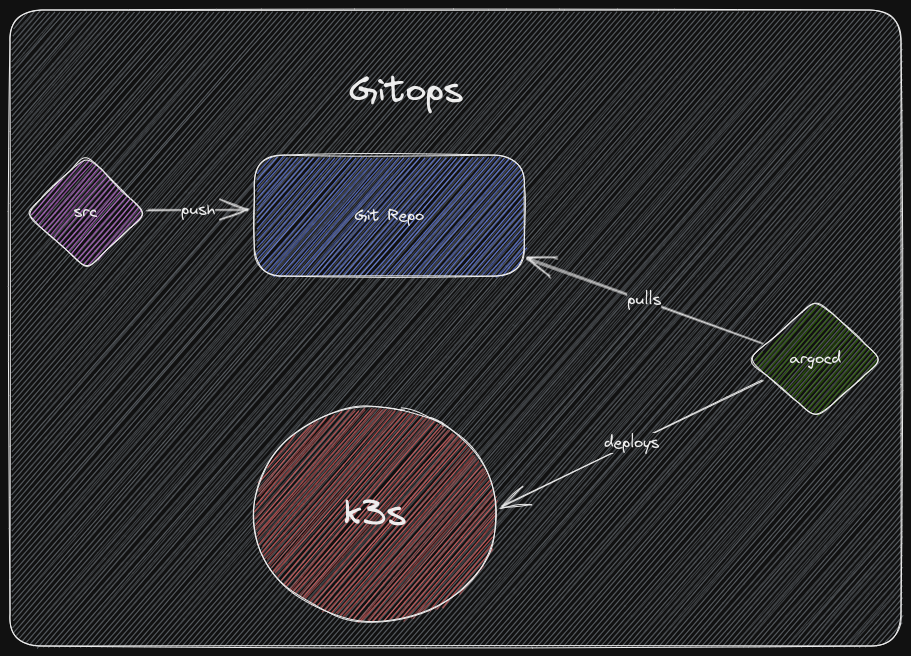
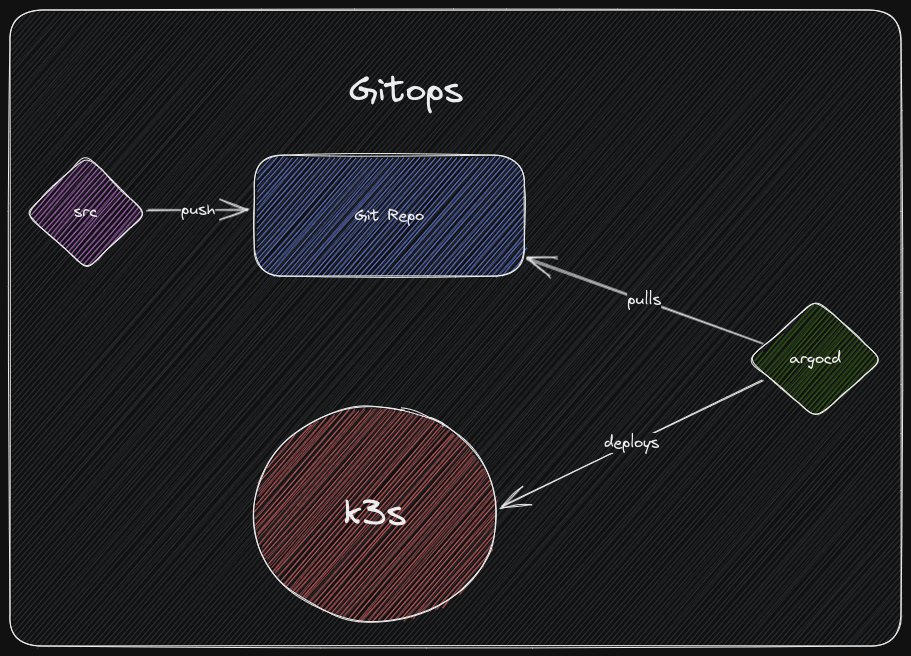
updated docs

Changed region(s): [[0.0, 0.0, 0.9835, 1.0]]

diff --git a/docs/Excalidraw/gitops.md b/docs/Excalidraw/gitops.md
@@ -34,8 +34,8 @@ deploys ^ffl88FOX
 	"elements": [
 		{
 			"type": "rectangle",
-			"version": 100,
-			"versionNonce": 291937444,
+			"version": 110,
+			"versionNonce": 1418258724,
 			"isDeleted": false,
 			"id": "u7u7zSOtFN6kRKwWiZcd3",
 			"fillStyle": "hachure",
@@ -47,7 +47,7 @@ deploys ^ffl88FOX
 			"x": -409.075569584724,
 			"y": -450.29787561379356,
 			"strokeColor": "#000000",
-			"backgroundColor": "#868e96",
+			"backgroundColor": "#ced4da",
 			"width": 891,
 			"height": 636,
 			"seed": 1974743464,
@@ -56,14 +56,14 @@ deploys ^ffl88FOX
 				"type": 3
 			},
 			"boundElements": [],
-			"updated": 1682622008367,
+			"updated": 1682622308020,
 			"link": null,
 			"locked": false
 		},
 		{
 			"type": "text",
-			"version": 52,
-			"versionNonce": 212631716,
+			"version": 61,
+			"versionNonce": 1641776676,
 			"isDeleted": false,
 			"id": "Byv7qdiW",
 			"fillStyle": "hachure",
@@ -82,7 +82,7 @@ deploys ^ffl88FOX
 			"groupIds": [],
 			"roundness": null,
 			"boundElements": [],
-			"updated": 1682622002718,
+			"updated": 1682622294817,
 			"link": null,
 			"locked": false,
 			"fontSize": 36,
@@ -98,8 +98,8 @@ deploys ^ffl88FOX
 		},
 		{
 			"type": "arrow",
-			"version": 639,
-			"versionNonce": 1837957276,
+			"version": 652,
+			"versionNonce": 1612865052,
 			"isDeleted": false,
 			"id": "jeb5vtgqfgV7qZcL64plT",
 			"fillStyle": "hachure",
@@ -125,7 +125,7 @@ deploys ^ffl88FOX
 					"id": "C216NDj0"
 				}
 			],
-			"updated": 1682622115702,
+			"updated": 1682622294817,
 			"link": null,
 			"locked": false,
 			"startBinding": {
@@ -154,8 +154,8 @@ deploys ^ffl88FOX
 		},
 		{
 			"type": "text",
-			"version": 85,
-			"versionNonce": 1008520228,
+			"version": 94,
+			"versionNonce": 1884234148,
 			"isDeleted": false,
 			"id": "C216NDj0",
 			"fillStyle": "hachure",
@@ -174,7 +174,7 @@ deploys ^ffl88FOX
 			"groupIds": [],
 			"roundness": null,
 			"boundElements": [],
-			"updated": 1682622002718,
+			"updated": 1682622294817,
 			"link": null,
 			"locked": false,
 			"fontSize": 16,
@@ -190,8 +190,8 @@ deploys ^ffl88FOX
 		},
 		{
 			"type": "rectangle",
-			"version": 239,
-			"versionNonce": 973109276,
+			"version": 251,
+			"versionNonce": 1491614364,
 			"isDeleted": false,
 			"id": "kLS8z6zJOK-h-JcVIsNQb",
 			"fillStyle": "hachure",
@@ -225,14 +225,14 @@ deploys ^ffl88FOX
 					"type": "arrow"
 				}
 			],
-			"updated": 1682622002718,
+			"updated": 1682622294817,
 			"link": null,
 			"locked": false
 		},
 		{
 			"type": "text",
-			"version": 195,
-			"versionNonce": 1048029092,
+			"version": 204,
+			"versionNonce": 885214500,
 			"isDeleted": false,
 			"id": "d0uokuYA",
 			"fillStyle": "hachure",
@@ -251,7 +251,7 @@ deploys ^ffl88FOX
 			"groupIds": [],
 			"roundness": null,
 			"boundElements": [],
-			"updated": 1682622002718,
+			"updated": 1682622294817,
 			"link": null,
 			"locked": false,
 			"fontSize": 16,
@@ -267,8 +267,8 @@ deploys ^ffl88FOX
 		},
 		{
 			"type": "diamond",
-			"version": 337,
-			"versionNonce": 1140003996,
+			"version": 348,
+			"versionNonce": 1706985244,
 			"isDeleted": false,
 			"id": "vQEnVNpq7gxfsT9YVamWG",
 			"fillStyle": "hachure",
@@ -302,14 +302,14 @@ deploys ^ffl88FOX
 					"type": "arrow"
 				}
 			],
-			"updated": 1682622002718,
+			"updated": 1682622294817,
 			"link": null,
 			"locked": false
 		},
 		{
 			"type": "text",
-			"version": 336,
-			"versionNonce": 2011894564,
+			"version": 345,
+			"versionNonce": 1084623012,
 			"isDeleted": false,
 			"id": "WSebLmqn",
 			"fillStyle": "hachure",
@@ -328,7 +328,7 @@ deploys ^ffl88FOX
 			"groupIds": [],
 			"roundness": null,
 			"boundElements": [],
-			"updated": 1682622002718,
+			"updated": 1682622294817,
 			"link": null,
 			"locked": false,
 			"fontSize": 16,
@@ -344,8 +344,8 @@ deploys ^ffl88FOX
 		},
 		{
 			"type": "arrow",
-			"version": 884,
-			"versionNonce": 1203320732,
+			"version": 897,
+			"versionNonce": 186074012,
 			"isDeleted": false,
 			"id": "-48LjWheyHDZuB7qjw9Hp",
 			"fillStyle": "hachure",
@@ -371,7 +371,7 @@ deploys ^ffl88FOX
 					"id": "ZqwWGwxC"
 				}
 			],
-			"updated": 1682622115698,
+			"updated": 1682622294817,
 			"link": null,
 			"locked": false,
 			"startBinding": {
@@ -400,8 +400,8 @@ deploys ^ffl88FOX
 		},
 		{
 			"type": "text",
-			"version": 86,
-			"versionNonce": 384110244,
+			"version": 95,
+			"versionNonce": 1202017316,
 			"isDeleted": false,
 			"id": "ZqwWGwxC",
 			"fillStyle": "hachure",
@@ -420,7 +420,7 @@ deploys ^ffl88FOX
 			"groupIds": [],
 			"roundness": null,
 			"boundElements": [],
-			"updated": 1682622002718,
+			"updated": 1682622294817,
 			"link": null,
 			"locked": false,
 			"fontSize": 16,
@@ -436,8 +436,8 @@ deploys ^ffl88FOX
 		},
 		{
 			"type": "arrow",
-			"version": 458,
-			"versionNonce": 1440386332,
+			"version": 471,
+			"versionNonce": 1864658972,
 			"isDeleted": false,
 			"id": "4nyMsX075Yv1S7o89XaMr",
 			"fillStyle": "hachure",
@@ -463,7 +463,7 @@ deploys ^ffl88FOX
 					"id": "ffl88FOX"
 				}
 			],
-			"updated": 1682622115704,
+			"updated": 1682622294817,
 			"link": null,
 			"locked": false,
 			"startBinding": {
@@ -492,8 +492,8 @@ deploys ^ffl88FOX
 		},
 		{
 			"type": "text",
-			"version": 59,
-			"versionNonce": 1276353060,
+			"version": 68,
+			"versionNonce": 1471098788,
 			"isDeleted": false,
 			"id": "ffl88FOX",
 			"fillStyle": "hachure",
@@ -512,7 +512,7 @@ deploys ^ffl88FOX
 			"groupIds": [],
 			"roundness": null,
 			"boundElements": [],
-			"updated": 1682622002718,
+			"updated": 1682622294817,
 			"link": null,
 			"locked": false,
 			"fontSize": 16,
@@ -528,8 +528,8 @@ deploys ^ffl88FOX
 		},
 		{
 			"type": "diamond",
-			"version": 162,
-			"versionNonce": 1680181788,
+			"version": 172,
+			"versionNonce": 567807132,
 			"isDeleted": false,
 			"id": "l9nJ_Ggt9ZMg478Jqf7vt",
 			"fillStyle": "hachure",
@@ -559,14 +559,14 @@ deploys ^ffl88FOX
 					"type": "arrow"
 				}
 			],
-			"updated": 1682622002718,
+			"updated": 1682622294817,
 			"link": null,
 			"locked": false
 		},
 		{
 			"type": "text",
-			"version": 126,
-			"versionNonce": 40154532,
+			"version": 135,
+			"versionNonce": 284269348,
 			"isDeleted": false,
 			"id": "lnbNMS6v",
 			"fillStyle": "hachure",
@@ -585,7 +585,7 @@ deploys ^ffl88FOX
 			"groupIds": [],
 			"roundness": null,
 			"boundElements": [],
-			"updated": 1682622002718,
+			"updated": 1682622294817,
 			"link": null,
 			"locked": false,
 			"fontSize": 16,
@@ -601,8 +601,8 @@ deploys ^ffl88FOX
 		},
 		{
 			"type": "ellipse",
-			"version": 120,
-			"versionNonce": 1269163676,
+			"version": 133,
+			"versionNonce": 723001892,
 			"isDeleted": false,
 			"id": "DgGiR_mS6vZ2FDqEMHlvY",
 			"fillStyle": "hachure",
@@ -632,14 +632,14 @@ deploys ^ffl88FOX
 					"type": "arrow"
 				}
 			],
-			"updated": 1682622002718,
+			"updated": 1682622302596,
 			"link": null,
 			"locked": false
 		},
 		{
 			"type": "text",
-			"version": 29,
-			"versionNonce": 386294052,
+			"version": 39,
+			"versionNonce": 1267565084,
 			"isDeleted": false,
 			"id": "Yi8IxtD5",
 			"fillStyle": "hachure",
@@ -658,7 +658,7 @@ deploys ^ffl88FOX
 			"groupIds": [],
 			"roundness": null,
 			"boundElements": [],
-			"updated": 1682622002718,
+			"updated": 1682622302596,
 			"link": null,
 			"locked": false,
 			"fontSize": 36,
@@ -677,8 +677,8 @@ deploys ^ffl88FOX
 		"theme": "dark",
 		"viewBackgroundColor": "#ffffff",
 		"currentItemStrokeColor": "#000000",
-		"currentItemBackgroundColor": "#868e96",
-		"currentItemFillStyle": "hachure",
+		"currentItemBackgroundColor": "#ced4da",
+		"currentItemFillStyle": "solid",
 		"currentItemStrokeWidth": 1,
 		"currentItemStrokeStyle": "solid",
 		"currentItemRoughness": 1,

diff --git a/docs/Excalidraw/three-choices.md b/docs/Excalidraw/three-choices.md
@@ -283,42 +283,6 @@ Minikube ^E6HB5i2B
 			"originalText": "- starts with debian ( FDE )\n- converts debian to proxmox\n- creates proxmox debian template\n- creates kvm based on template\n- installs k3s in kvm\n- installs argocd in k3s\n- argocd then loads the charts",
 			"lineHeight": 1.25,
 			"baseline": 134
-		},
-		{
-			"id": "qfRlFuOx",
-			"type": "text",
-			"x": 1212.4756436740047,
-			"y": -258.1821658615136,
-			"width": 8.000015258789062,
-			"height": 20,
-			"angle": 0,
-			"strokeColor": "#000000",
-			"backgroundColor": "#ced4da",
-			"fillStyle": "hachure",
-			"strokeWidth": 1,
-			"strokeStyle": "solid",
-			"roughness": 1,
-			"opacity": 100,
-			"groupIds": [],
-			"roundness": null,
-			"seed": 203485604,
-			"version": 2,
-			"versionNonce": 516667164,
-			"isDeleted": true,
-			"boundElements": null,
-			"updated": 1682620417172,
-			"link": null,
-			"locked": false,
-			"text": "",
-			"rawText": "",
-			"fontSize": 16,
-			"fontFamily": 1,
-			"textAlign": "center",
-			"verticalAlign": "middle",
-			"baseline": 14,
-			"containerId": "n0wgANVJMFlWRWMNM3_X6",
-			"originalText": "",
-			"lineHeight": 1.25
 		}
 	],
 	"appState": {
